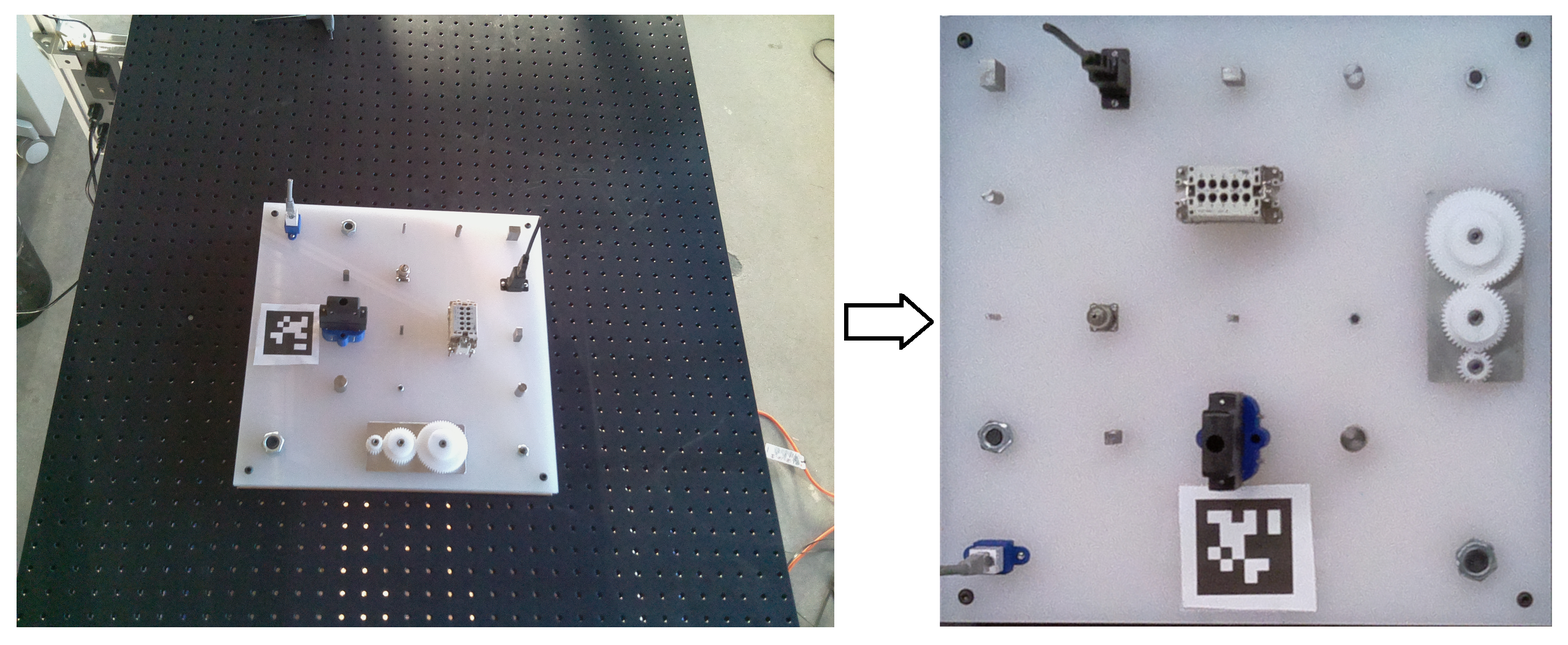
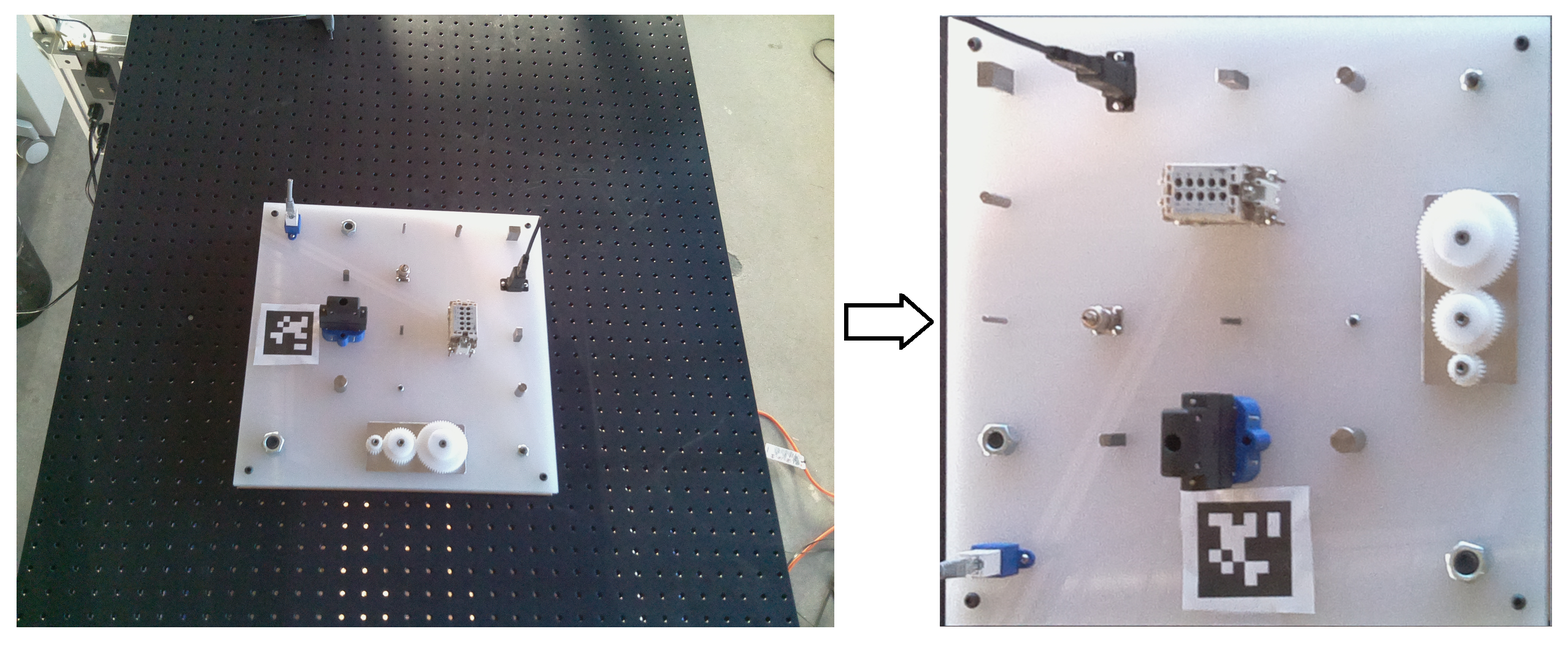
Readme images

Changed region(s): [[0.5872, 0.0, 0.989, 0.9725], [0.8963, 0.8205, 0.989, 0.9725]]

diff --git a/README.md b/README.md
@@ -14,6 +14,8 @@ To start collecting data you need to set up some kind of overhead camera that ca
 For an initial dataset, the easiest thing to do is collect a set of images with all components present, and another set of images for empty boards. This way very little data labeling needs to be done when splitting the taskboard images into training images.  
 
 ### Taskboard Extraction (using taskboard_detection.py)   
+![Taskboard Detection Stage 1-3](data/misc/tb_detection1.png)  
+![Taskboard Detection Stage 4](data/misc/tb_detection2.png)  
 OpenCV is used to extract the precise locations of the four corners of a taskboard, which is then used to warp the taskboard into a square image. Approaching the problem this way provides a very consistent dataset even if the board is rotated or the camera is moved in some way. The way this is currently implemented works, but could be significantly improved or approached differently, because as long as the board corners can be accurately extracted, everything else should still work.  
 **taskboard_detection.py** can be imported, and the **process_taskboard(image)** function will take an image and attempt to extract and return a taskboard image like the ones in the dataset. Note that an apriltag is used in our approach as a way of keeping the output orientation consistent. Debug images can be saved to see what's going wrong if things aren't working. The method used is outlined:  
 1. Isolate the board   
@@ -29,6 +31,7 @@ OpenCV is used to extract the precise locations of the four corners of a taskboa
 
 
 ## STAGE 2: ROI Setup & Data Splitting  
+![Taskboard ROI Image Splitting](data/misc/tb_roi_split.png)  
 Because all the collected taskboard images should be nearly identical, the position of any particular component within each image should be fixed, meaning we can explicitly define image locations to extract each component.   
 ### roi_config.py / roi_config.launch  
 Provide this script with one of your collected taskboard images, and the default ROI .csv file, and it will allow you to visually edit the component regions as needed, and then save the new configuration to a .csv file. This .csv file is then used to extract component sub-images in order to train the individual networks, and for evaluating taskboard images.  
